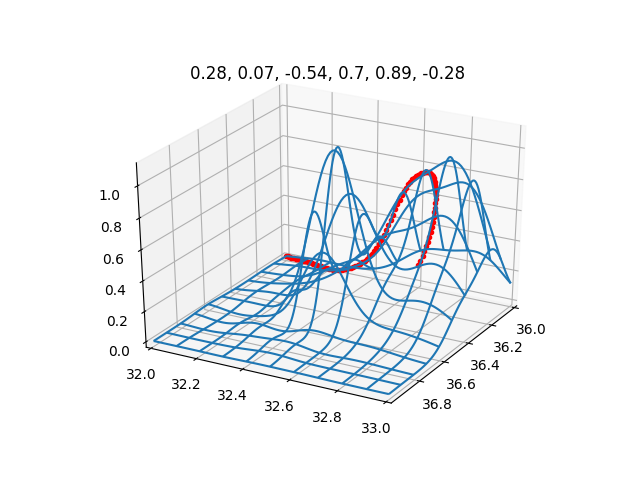
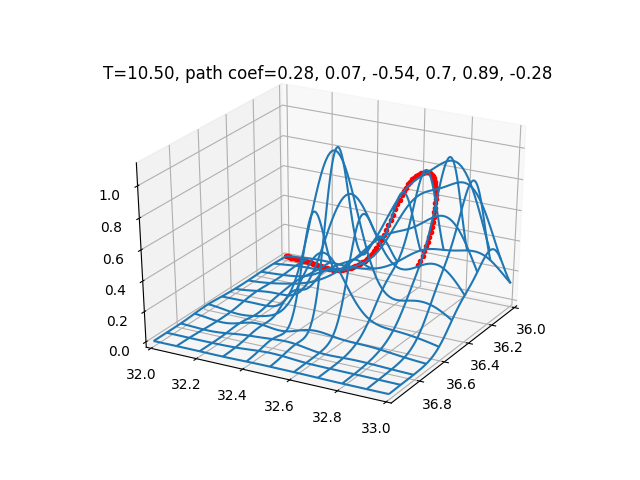
-

Changed region(s): [[0.1562, 0.125, 0.7812, 0.1875], [0.8125, 0.125, 0.875, 0.1875]]

diff --git a/calc_multi/calc_multi_40_elev/calc_multi_40_elev.html b/calc_multi/calc_multi_40_elev/calc_multi_40_elev.html
@@ -498,10 +498,22 @@ plt.savefig('calc_multi_40_elev_07.png')
 </code></pre>
 
 <p><img alt="" src="calc_multi_40_elev_07.png" /></p>
-<p>Autoğrad, Otomatik Türev</p>
-<p>Şimdiye kadar gördüğümüz yöntem gradyan, türev bilgisinin sayısal olarak
-hesaplayan bir yöntem kullandı, ÇOBYLA. Fakat gradyan bilgisini <code>autoğrad</code>
-ile hesaplatıp optimizasyon adımını kendimiz de atabilirdik. </p>
+<p>Autograd, Otomatik Türev</p>
+<p>Şimdiye kadar gördüğümüz yöntem gradyan /türev bilgisinin sayısal olarak
+hesaplayan bir yöntem kullandı, COBYLA. Fakat gradyan bilgisini <code>autograd</code>
+otomatik türev olarak aldırıp (sembolik türev ile aynı kuvvette),
+minimizasyon adımını kendimiz de atabilirdik.</p>
+<p>İki tepeli örnek üzerinde görelim. Tepeleri yaratıp, örneklem alıp, RBF
+modelleme yapiyoruz. Fakat bir fark var, RBF ile yükseklik hesaplayan
+metot, ve onun içinde çağırdığı tüm metotlar "autograd-perver" olmalı,
+çünkü autograd perde arkasında Python kodu üzerinde bazı temelden
+değişimler yapıyor, ve bu sebeple metotların autoğrad üzerinden, ve
+autograd dışından çağrılmalarında farklılıklar olabiliyor. Kodlamadaki
+değişimleri açık şekilde göstermek amaciyla 
+<code>import numpy as anp</code> ile dahil edilen <code>numpy</code> versiyoununu farklı isimlendirdik.</p>
+<p>Gradyan inişi için gereken gradyan her parametre için
+<code>autograd.grad(intval,...)</code> ile alinir [5], ve 0,1,2,.. diye giden
+parametreler sırasıyla egrinin katsayilari $a_1,a_2,..$'ye tekabül ediyor.</p>
 <pre><code class="python">import pandas as pd
 import numpy as np
 from mpl_toolkits.mplot3d import Axes3D
@@ -575,8 +587,7 @@ def intval(a1,a2,a3,b1,b2,b3):
    z = [f_interp(anp.array([[xx,yy]]))[0][0] for xx,yy in zip(x,y)]
    res = z * sq
    T = trapz(res, 1.0/len(t))
-   P = anp.power(a1,a1) + anp.power(a2,a2)  + anp.power(a3,a3) + anp.power(b1,b1) + anp.power(b2,b2)  + anp.power(b3,b3)
-   T = T + P
+   if ('ArrayBox' not in str(type(T))): return float(T)
    return T._value
 
 
@@ -598,7 +609,7 @@ for i in range(3):
     oldx = newx
     a1,a2,a3,b1,b2,b3 = newx
 
-    print (a1,a2,a3)
+    T = intval(a1,a2,a3,b1,b2,b3)
 
     a4 = ex - a0 - (a1+a2+a3)
     b4 = ey - b0 - (b1+b2+b3)
@@ -617,7 +628,7 @@ for i in range(3):
     y = b0 + b1*t + b2*t**2 + b3*t**3 + b4*t**4
     z = [f_interp(anp.array([[xx,yy]]))[0][0] for xx,yy in zip(x,y)]
     ax.plot3D(x, y, z,'r.')
-    plt.title(&quot;, &quot;.join([str(np.round(xcurr,2)) for xcurr in newx]))
+    plt.title(&quot;T=%0.2f, path coef=&quot; % T +&quot;, &quot;.join([str(np.round(xcurr,2)) for xcurr in newx]))
     plt.savefig('linear_app88rbf_08-%d.png' % i)
 
     grad_1 = [intval_grad_a1(a1,a2,a3,b1,b2,b3),\
@@ -634,8 +645,14 @@ for i in range(3):
 <p><img alt="" src="linear_app88rbf_08-0.png" />
 <img alt="" src="linear_app88rbf_08-1.png" />
 <img alt="" src="linear_app88rbf_08-2.png" /></p>
+<p>Sonuçlara bakarsak rasgele katsayılarla başladık, ve tek bir gradyan inişi
+adımı ile optimal bir yola oldukca yaklaştık. Bir adım daha daha da iyi
+sonuç verdi. </p>
+<p>İşte görüldüğü gibi son derece çetrefil bir fonksiyon olsa da türevi rahat
+bir şekilde hesaplamış oluyoruz. </p>
 <p>Kaynaklar </p>
 <p>[1] Bayramlı, Sayısal Bilim, <em>Sayısal Entegrasyon (Numerical Integration)</em></p>
 <p>[2] Bayramlı, Cok Boyutlu Calculus, <em>Ders 19, Skalar Alanlar Uzerinden Cizgi Entegral</em></p>
 <p>[3] Bayramlı, Cok Boyutlu Calculus, <em>Ders 5, İki Nokta Arasında Parametrize Edilmiş Eğri</em></p>
 <p>[4] Bayramlı, İstatistik ve Veri Analizi, <em>Dairesel Baz Fonksiyonları (Radial Basis Functions -RBF-)</em></p>
+<p>[5] Bayramlı, Fonksiyonel Analiz ve Optimizasyon, <em>Autograd ile Optimizasyon</em></p>

diff --git a/calc_multi/calc_multi_40_elev/yukseklik_fonksiyonu__tepeler__arasindan_en_duz_optimal_yuruyus_yolunu_bulmak.html b/calc_multi/calc_multi_40_elev/yukseklik_fonksiyonu__tepeler__arasindan_en_duz_optimal_yuruyus_yolunu_bulmak.html
@@ -498,10 +498,22 @@ plt.savefig('calc_multi_40_elev_07.png')
 </code></pre>
 
 <p><img alt="" src="calc_multi_40_elev_07.png" /></p>
-<p>Autoğrad, Otomatik Türev</p>
-<p>Şimdiye kadar gördüğümüz yöntem gradyan, türev bilgisinin sayısal olarak
-hesaplayan bir yöntem kullandı, ÇOBYLA. Fakat gradyan bilgisini <code>autoğrad</code>
-ile hesaplatıp optimizasyon adımını kendimiz de atabilirdik. </p>
+<p>Autograd, Otomatik Türev</p>
+<p>Şimdiye kadar gördüğümüz yöntem gradyan /türev bilgisinin sayısal olarak
+hesaplayan bir yöntem kullandı, COBYLA. Fakat gradyan bilgisini <code>autograd</code>
+otomatik türev olarak aldırıp (sembolik türev ile aynı kuvvette),
+minimizasyon adımını kendimiz de atabilirdik.</p>
+<p>İki tepeli örnek üzerinde görelim. Tepeleri yaratıp, örneklem alıp, RBF
+modelleme yapiyoruz. Fakat bir fark var, RBF ile yükseklik hesaplayan
+metot, ve onun içinde çağırdığı tüm metotlar "autograd-perver" olmalı,
+çünkü autograd perde arkasında Python kodu üzerinde bazı temelden
+değişimler yapıyor, ve bu sebeple metotların autoğrad üzerinden, ve
+autograd dışından çağrılmalarında farklılıklar olabiliyor. Kodlamadaki
+değişimleri açık şekilde göstermek amaciyla 
+<code>import numpy as anp</code> ile dahil edilen <code>numpy</code> versiyoununu farklı isimlendirdik.</p>
+<p>Gradyan inişi için gereken gradyan her parametre için
+<code>autograd.grad(intval,...)</code> ile alinir [5], ve 0,1,2,.. diye giden
+parametreler sırasıyla egrinin katsayilari $a_1,a_2,..$'ye tekabül ediyor.</p>
 <pre><code class="python">import pandas as pd
 import numpy as np
 from mpl_toolkits.mplot3d import Axes3D
@@ -575,8 +587,7 @@ def intval(a1,a2,a3,b1,b2,b3):
    z = [f_interp(anp.array([[xx,yy]]))[0][0] for xx,yy in zip(x,y)]
    res = z * sq
    T = trapz(res, 1.0/len(t))
-   P = anp.power(a1,a1) + anp.power(a2,a2)  + anp.power(a3,a3) + anp.power(b1,b1) + anp.power(b2,b2)  + anp.power(b3,b3)
-   T = T + P
+   if ('ArrayBox' not in str(type(T))): return float(T)
    return T._value
 
 
@@ -598,7 +609,7 @@ for i in range(3):
     oldx = newx
     a1,a2,a3,b1,b2,b3 = newx
 
-    print (a1,a2,a3)
+    T = intval(a1,a2,a3,b1,b2,b3)
 
     a4 = ex - a0 - (a1+a2+a3)
     b4 = ey - b0 - (b1+b2+b3)
@@ -617,7 +628,7 @@ for i in range(3):
     y = b0 + b1*t + b2*t**2 + b3*t**3 + b4*t**4
     z = [f_interp(anp.array([[xx,yy]]))[0][0] for xx,yy in zip(x,y)]
     ax.plot3D(x, y, z,'r.')
-    plt.title(&quot;, &quot;.join([str(np.round(xcurr,2)) for xcurr in newx]))
+    plt.title(&quot;T=%0.2f, path coef=&quot; % T +&quot;, &quot;.join([str(np.round(xcurr,2)) for xcurr in newx]))
     plt.savefig('linear_app88rbf_08-%d.png' % i)
 
     grad_1 = [intval_grad_a1(a1,a2,a3,b1,b2,b3),\
@@ -634,8 +645,14 @@ for i in range(3):
 <p><img alt="" src="linear_app88rbf_08-0.png" />
 <img alt="" src="linear_app88rbf_08-1.png" />
 <img alt="" src="linear_app88rbf_08-2.png" /></p>
+<p>Sonuçlara bakarsak rasgele katsayılarla başladık, ve tek bir gradyan inişi
+adımı ile optimal bir yola oldukca yaklaştık. Bir adım daha daha da iyi
+sonuç verdi. </p>
+<p>İşte görüldüğü gibi son derece çetrefil bir fonksiyon olsa da türevi rahat
+bir şekilde hesaplamış oluyoruz. </p>
 <p>Kaynaklar </p>
 <p>[1] Bayramlı, Sayısal Bilim, <em>Sayısal Entegrasyon (Numerical Integration)</em></p>
 <p>[2] Bayramlı, Cok Boyutlu Calculus, <em>Ders 19, Skalar Alanlar Uzerinden Cizgi Entegral</em></p>
 <p>[3] Bayramlı, Cok Boyutlu Calculus, <em>Ders 5, İki Nokta Arasında Parametrize Edilmiş Eğri</em></p>
 <p>[4] Bayramlı, İstatistik ve Veri Analizi, <em>Dairesel Baz Fonksiyonları (Radial Basis Functions -RBF-)</em></p>
+<p>[5] Bayramlı, Fonksiyonel Analiz ve Optimizasyon, <em>Autograd ile Optimizasyon</em></p>

diff --git a/calc_multi/calc_multi_40_elev/pathsauto.py b/calc_multi/calc_multi_40_elev/pathsauto.py
@@ -71,6 +71,7 @@ def intval(a1,a2,a3,b1,b2,b3):
    z = [f_interp(anp.array([[xx,yy]]))[0][0] for xx,yy in zip(x,y)]
    res = z * sq
    T = trapz(res, 1.0/len(t))
+   if ('ArrayBox' not in str(type(T))): return float(T)
    return T._value
 
 
@@ -92,8 +93,8 @@ for i in range(3):
     oldx = newx
     a1,a2,a3,b1,b2,b3 = newx
 
-    print (a1,a2,a3)
-    
+    T = intval(a1,a2,a3,b1,b2,b3)
+        
     a4 = ex - a0 - (a1+a2+a3)
     b4 = ey - b0 - (b1+b2+b3)
 
@@ -111,7 +112,7 @@ for i in range(3):
     y = b0 + b1*t + b2*t**2 + b3*t**3 + b4*t**4
     z = [f_interp(anp.array([[xx,yy]]))[0][0] for xx,yy in zip(x,y)]
     ax.plot3D(x, y, z,'r.')
-    plt.title(", ".join([str(np.round(xcurr,2)) for xcurr in newx]))
+    plt.title("T=%0.2f, path coef=" % T +", ".join([str(np.round(xcurr,2)) for xcurr in newx]))
     plt.savefig('linear_app88rbf_08-%d.png' % i)
 
     grad_1 = [intval_grad_a1(a1,a2,a3,b1,b2,b3),\
